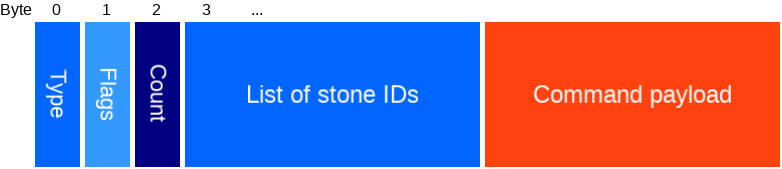
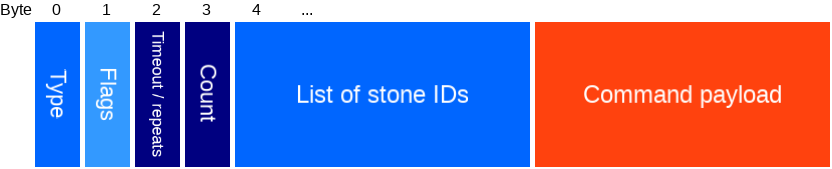
Added timeout / repeat field to mesh command protocol.

diff --git a/docs/PROTOCOL.md b/docs/PROTOCOL.md
@@ -503,6 +503,7 @@ Type | Name | Length | Description
 --- | --- | --- | ---
 uint 8 | [Type](#mesh_command_types) | 1 | Type of command, see table below.
 uint 8 | [Flags](#mesh_command_flags) | 1 | Options.
+uint 8 | Timeout / repeats | 1 | When acked: timeout time in seconds. Else: number of times to repeat the command. 0 to use the default.
 uint 8 | Count | 1 | The number of stone IDs provided.
 uint8 [] | List of stone IDs | Count | IDs of the stones at which this message is aimed. Can be empty, then the command payload follows directly after the count field.
 uint 8 | Command payload | N | The command payload data, which depends on the [type](#mesh_command_types).
@@ -519,8 +520,9 @@ Type nr | Type name | Payload type | Payload description
 
 Bit | Name |  Description
 --- | --- | ---
-0 | Broadcast | Send command to all stones. Else, its send to all stones in the list of stone IDs.
+0 | Broadcast | Send command to all stones. Else, its only sent to all stones in the list of stone IDs, which will take more time.
 1 | Ack all IDs | Retry until an ack is received from all stones in the list of stone IDs, or until timeout.
+2 | Use known IDs | Instead of using the provided stone IDs, use the stone IDs that this stone has seen.
 
 
 <a name="behaviour_debug_packet"></a>
